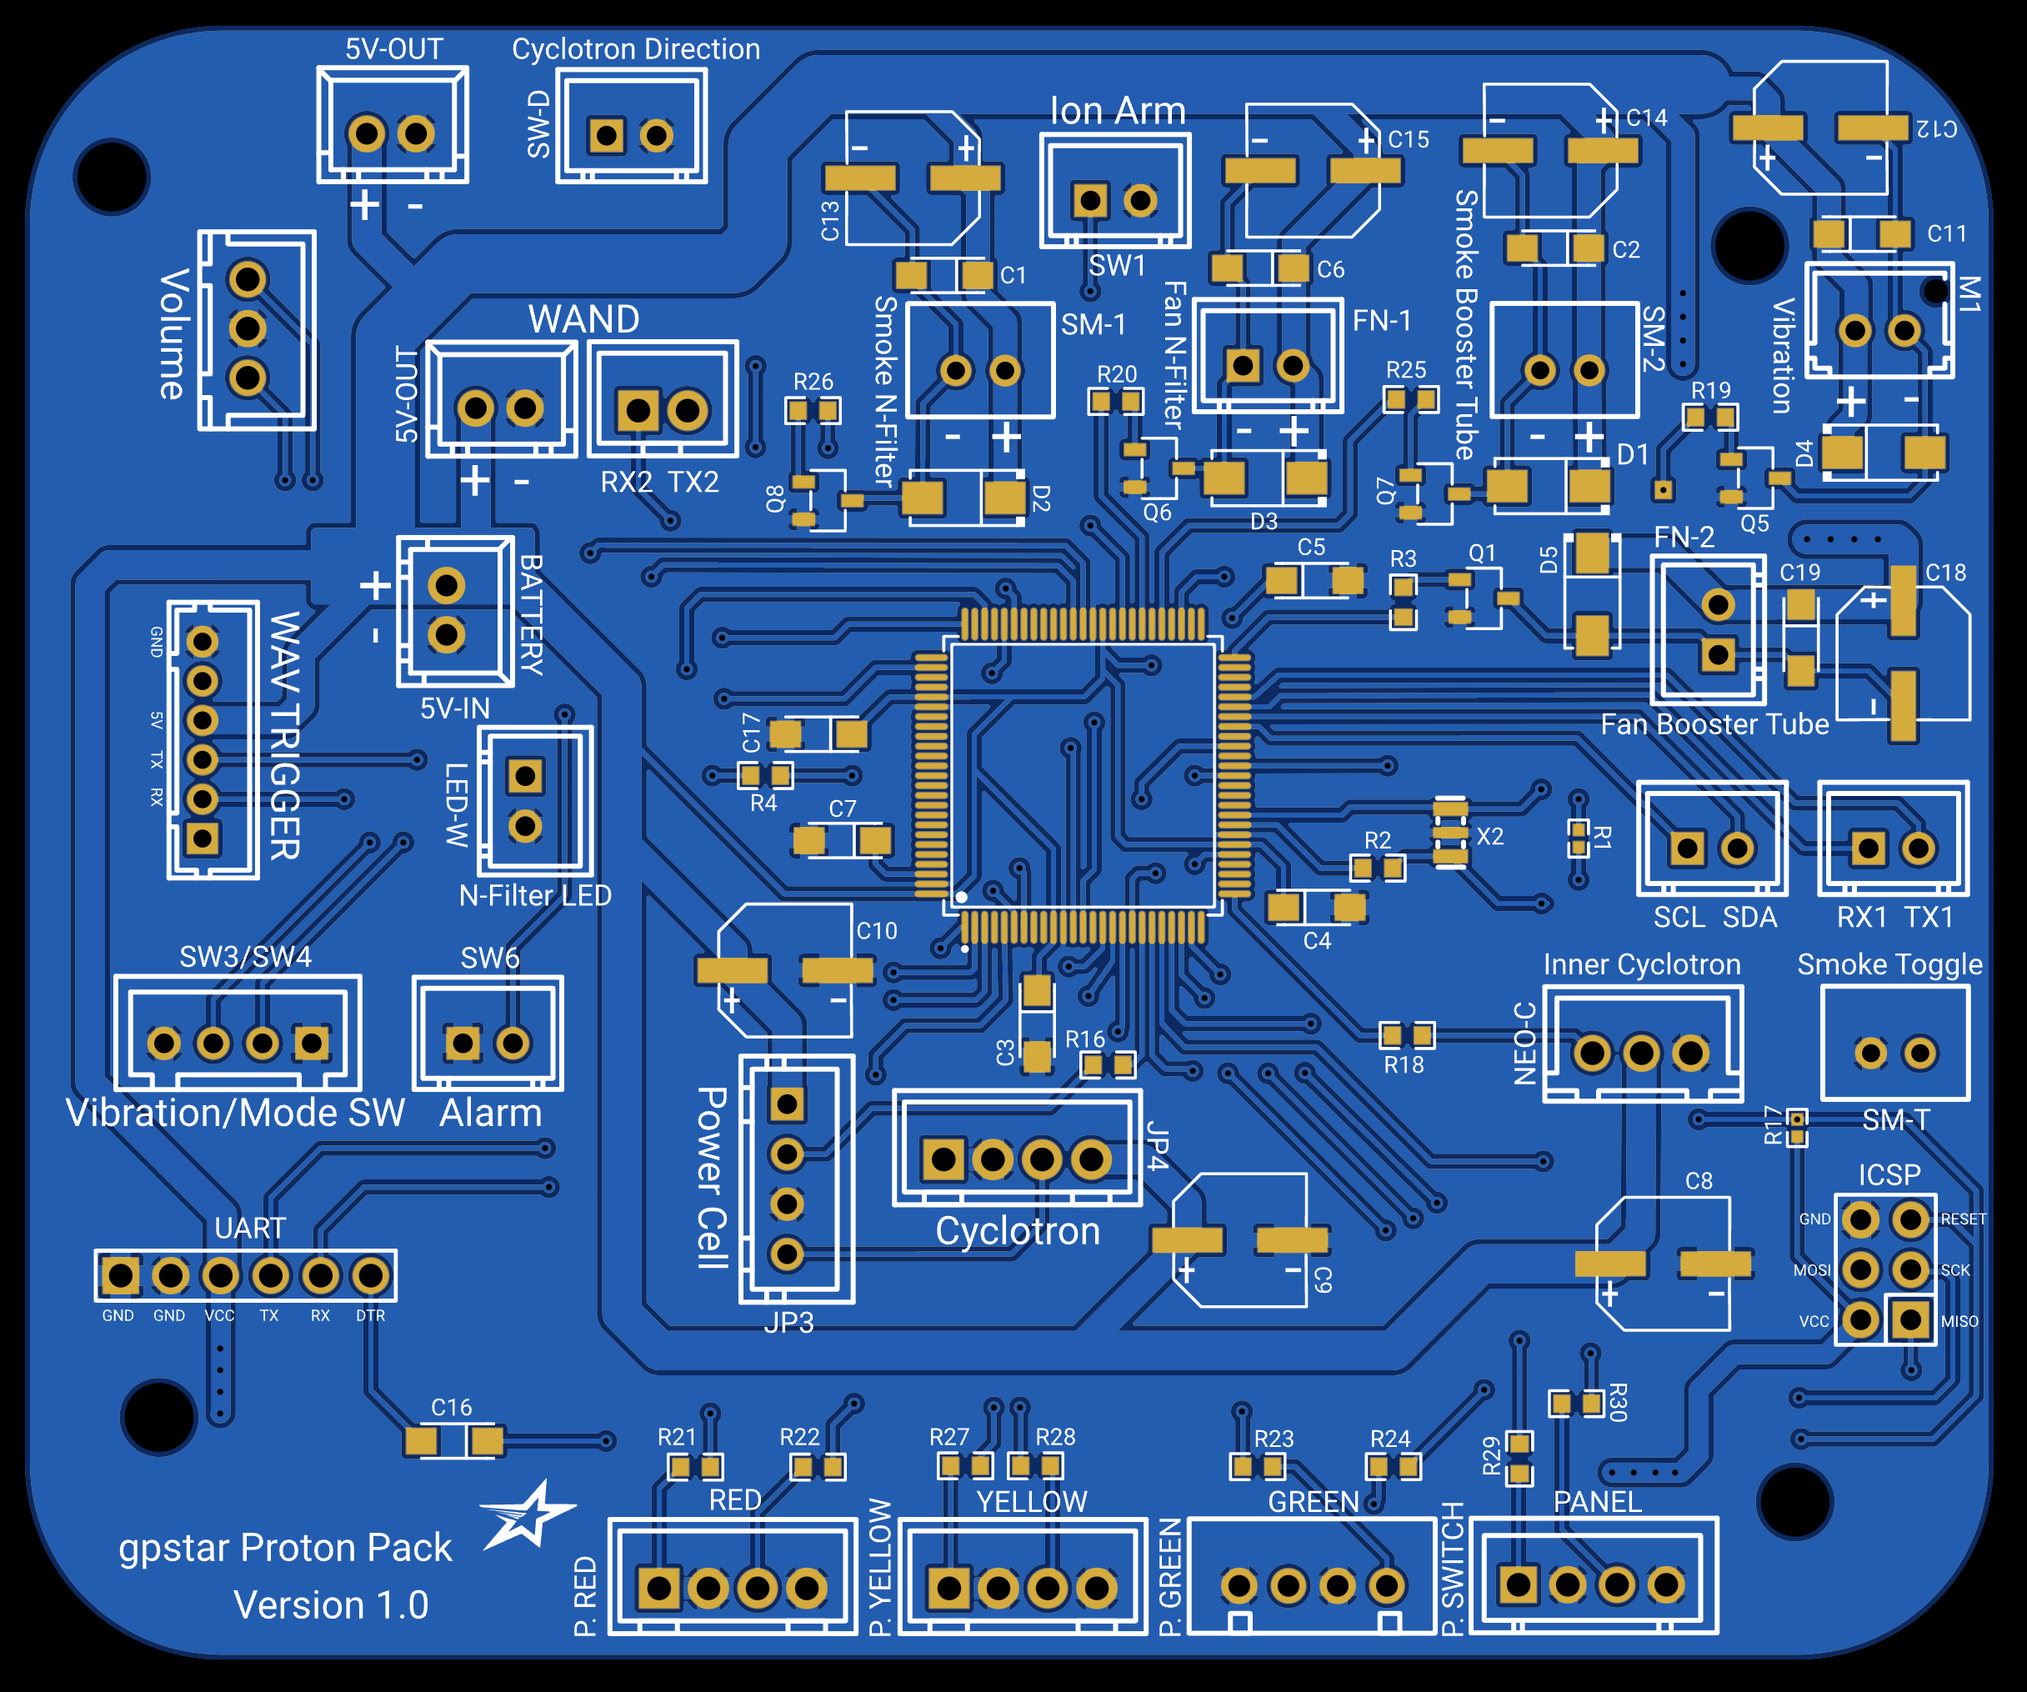
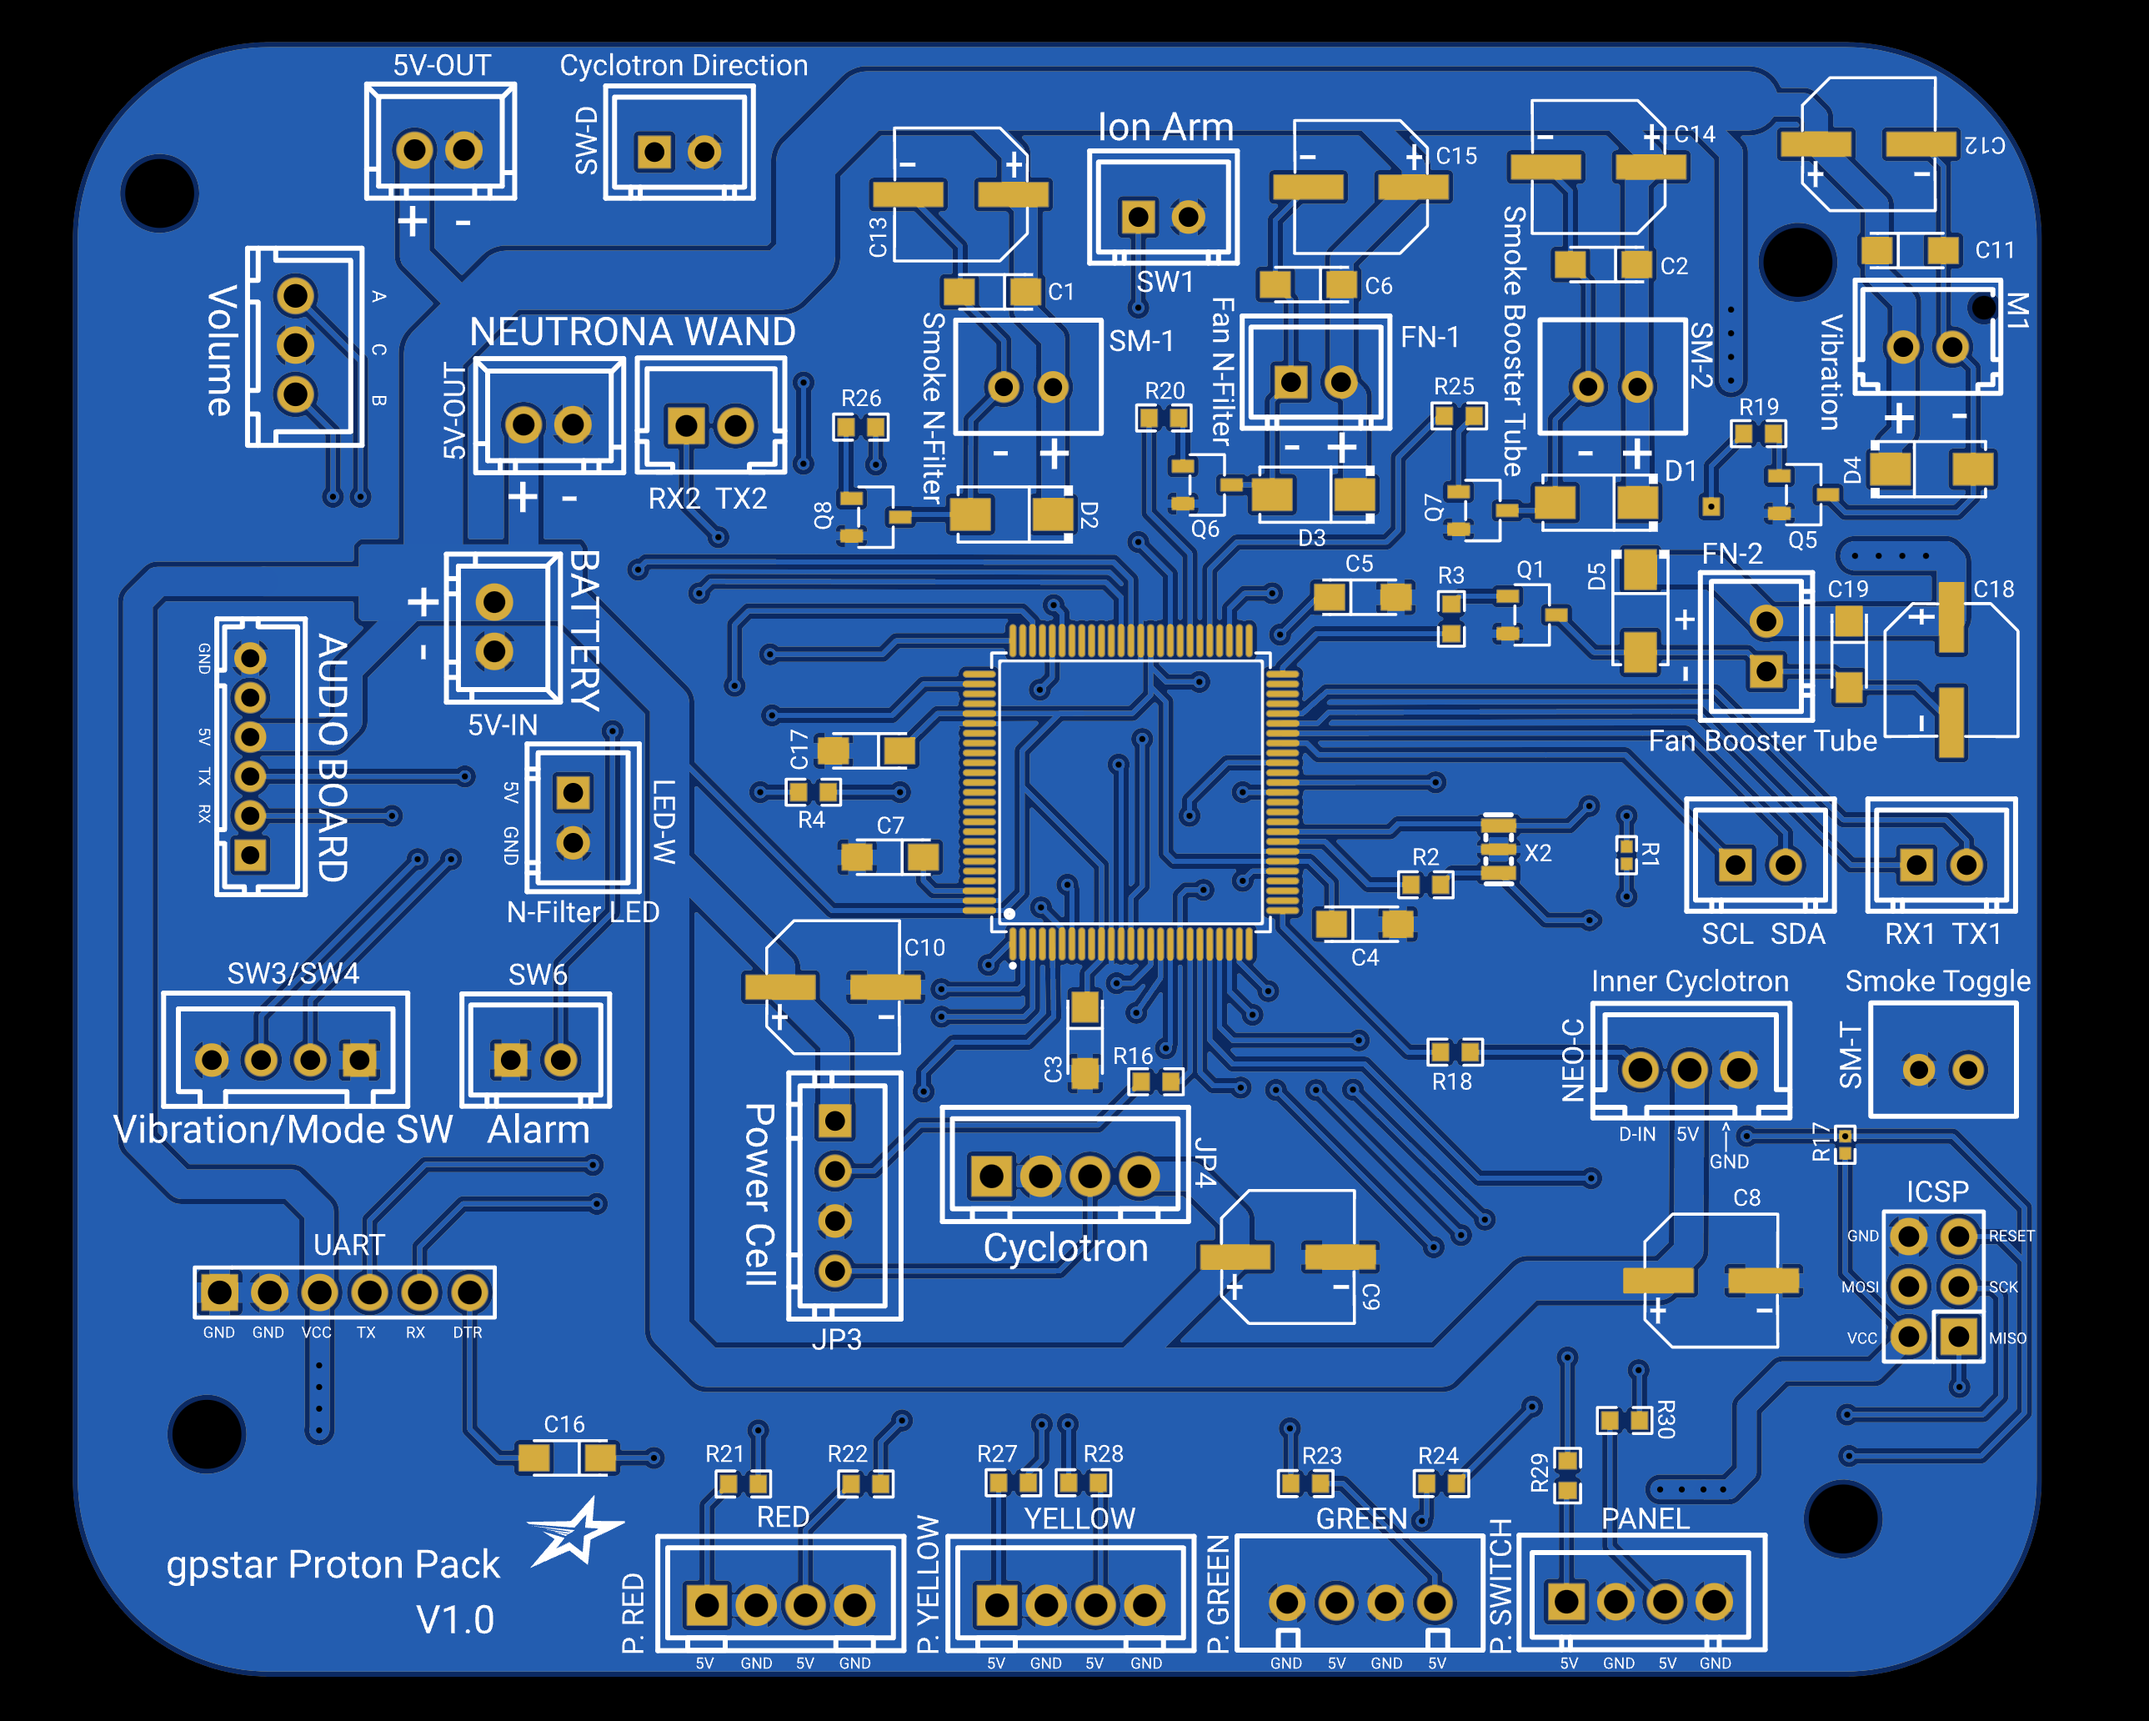
documentation updates

diff --git a/BARGRAPH.md b/BARGRAPH.md
@@ -14,23 +14,23 @@ This guide outlines the **optional** upgrade from the 5-LED stock bargraph to a 
 
 You will find the Barmeter pin reference below which will connect the bargraph to the matrix driver board. See the component fitment guide at the bottom of this page for how to mount this Bargraph into your wand body.
 
-| HT16K33 Board | PCB    | Nano Pin | Barmeter Pin |
-|---------------|--------|----------|--------------|
-| VDD           | +5V    |          |              |
-| GND           | Ground |          |              |
-| SDA           | →      | Pin A5   |              |
-| SCL           | →      | Pin A4   |              |
-| A0            | →      | →        | 22 (C1)      |
-| A1            | →      | →        |  1 (C2)      |
-| A2            | →      | →        | 19 (C3)      |
-| A3            | →      | →        | 18 (C4)      |
-| A4            | →      | →        |  7 (C5)      |
-| A5            | →      | →        | 10 (C6)      |
-| A6            | →      | →        | 11 (C7)      |
-| C0            | →      | →        | 21 (L1)      |
-| C1            | →      | →        | 15 (L2)      |
-| C2            | →      | →        | 13 (L3)      |
-| C3            | →      | →        | 16 (L4)      |
+| HT16K33 Board | Wand PCB |  Barmeter Pin |
+|---------------|--------|---------------|
+| VDD           | +5V    |               |
+| GND           | Ground |               |
+| SDA           | SDA    |               |
+| SCL           | SCL    |               |
+| A0            | →      |  22 (C1)      |
+| A1            | →      |   1 (C2)      |
+| A2            | →      |  19 (C3)      |
+| A3            | →      |  18 (C4)      |
+| A4            | →      |   7 (C5)      |
+| A5            | →      |  10 (C6)      |
+| A6            | →      |  11 (C7)      |
+| C0            | →      |  21 (L1)      |
+| C1            | →      |  15 (L2)      |
+| C2            | →      |  13 (L3)      |
+| C3            | →      |  16 (L4)      |
 
 **Note** - If using the all-in-one PCB controller, connect the SDA and SCL pins directly to the expansion port available on that board. Additionally, the VDD and GND pins may make use of the 5V-OUT connection on that controller.
 
@@ -60,11 +60,11 @@ The 28-segment bargraph is intended to take the place of the 5-LED + PCB assembl
 
 To fit the new bargraph in place, it needs a suitable holder to keep it in the correct orientation. Thankfully, it can be seen quite well without removing the clear/frosted plastic from the wand housing, though some minor trimming may be necessary at the bottom (when oriented with the rotary encoder facing up) of the bargraph socket. 
 
-If you have access to a 3D printer, the file [bargraph_insert.stl](stl/wand/bargraph_insert.stl) should fit the bargraph tightly while also slotting into the clear plastic. 
+If you have access to a 3D printer, the file [28_Segment_Bargraph_Insert.stl.stl](stl/wand/28_Segment_Bargraph_Insert.stl.stl) should fit the bargraph tightly while also slotting into the clear plastic. 
 ![](images/bargraph_mount_1.jpg)
 ![](images/bargraph_mount_2.jpg)
 
-There is an alternative mounting solution which when you cut the original clear plastic away, you can fit the bargraph into the [bargraph_mount.stl](stl/wand/bargraph_mount.stl) and [bargraph_block.stl](stl/wand/bargraph_block.stl) which uses the stock mounting screw positions.
+There is an alternative mounting solution which when you cut the original clear plastic away, you can fit the bargraph into the [28_Segment_Bargraph_Mount.stl](stl/wand/28_Segment_Bargraph_Mount.stl) and [28_Segment_Bargraph_Block.stl](stl/wand/28_Segment_Bargraph_Block.stl) which uses the stock mounting screw positions.
 ![](images/bargraph_mount_3.jpg)
 ![](images/bargraph_mount_4.jpg)
 ![](images/bargraph_mount_5.jpg)

diff --git a/PACK_PCB.md b/PACK_PCB.md
@@ -31,9 +31,9 @@ Connections for the pack should be made according to the table below.
 
 | Label | Pins | Notes |
 |-------|------|-------|
-| WAV TRIGGER | GND/NC/VCC/TX/RX/NC | Communication and Power for the pack's Wav Trigger |
-| WAND 5V-OUT | +/\- | Power to the Neutrona Wand |
-| WAND (Serial) | RX2/TX2 | Serial communication to the Neutrona Wand |
+| AUDIO BOARD | GND/NC/VCC/TX/RX/NC | Communication and Power for the pack's Wav Trigger |
+| NEUTRONA WAND 5V-OUT | +/\- | Power to the Neutrona Wand |
+| NEURTONA WAND (Serial) | RX2/TX2 | Serial communication to the Neutrona Wand |
 | ICSP | DO NOT USE! | Reserved header for bootloader updates (reserved) |
 | UART | See Below | Programming header for software updates (optional) |
 
@@ -53,11 +53,11 @@ For connecting the UART pins, use a suitable FTDI chip such as the same **FTDI B
 | SM-2 | \-/+ | Smoke effects for Booster Tube (D35) |
 | FN-2 | \-/+ | Fan for Booster Tube smoke (D50) |
 | NEO-C | D13/VCC/GND | Neopixel LED ring for Inner Cyclotron "Cake" |
-| P.RED | D4/GND/D5/GND | Cyclotron Panel LED's: 2x Red |
-| P.YELLOW | D6/GND/D7/GND | Cyclotron Panel LED's: 2x Yellow |
-| P.GREEN | D8/GND/D9/GND | Cyclotron Panel LED's: 2x Green |
-| P.SWITCH | D10/GND/D11/GND | Cyclotron Panel LED's: 1x Green (Mode Indicator, D10) and 1x Yellow (Vibration Enabled, D11) |
-| LED-W | D46/GND | Connection for a standalone white LED in N-Filter |
+| P.RED | D4/GND/D5/GND | Cyclotron Panel LED's: 2x Red.<br><br>D4 and D5 provides 5V and has a 140Ω resistor connected to each of them. Do not draw more than 40mA from each these pins. |
+| P.YELLOW | D6/GND/D7/GND | Cyclotron Panel LED's: 2x Yellow.<br><br>D6 and D7 provides 5V and has a 140Ω resistor connected to each of them. Do not draw more than 40mA from each these pins.|
+| P.GREEN | D8/GND/D9/GND | Cyclotron Panel LED's: 2x Green.<br><br>D8 and D9 provides 5V and has a 100Ω resistor connected to each of them. Do not draw more than 40mA from each these pins. |
+| P.SWITCH | D10/GND/D11/GND | Cyclotron Panel LED's: 1x Green (Mode Indicator, D10) and 1x Yellow (Vibration Enabled, D11).<br><br>D10 and D11 provides 5V. D10 and has a 100Ω resistor connected to it and D11 has a 140Ω resistor connected to it. Do not draw more than 40mA from each these pins. |
+| LED-W | D46/GND | Connection for a standalone white LED in the N-Filter.<br><br>D46 provides 5V and has a 100Ω resistor connected to it. Do not draw more than 40mA from this pin. |
 | 5V-OUT | +/\- | Power for additional accessories |
 | SCL/SDA | SCL/SDA | Expansion serial port using I2C |
 | RX1/TX1 | RX1/TX1 | Expansion serial port |

diff --git a/WAND_PCB.md b/WAND_PCB.md
@@ -70,9 +70,9 @@ For connecting the UART pins, use a suitable FTDI chip such as the same **FTDI B
 
 | Label | Pins | Notes |
 |-------|------|-------|
-| HAT1 | GND/D22 | Connection for hat LED |
-| HAT2 | GND/D23 | Connection for hat LED |
-| BARREL-LED | GND/D24 | Connection for white wand tip light |
+| HAT1 | GND/D22 | Connection for top of the wand box hat LED. The left (top in the photo) pin is GND, the right (bottom in the photo) pin is D22 which provides 5V and has a 100Ω resistor connected to it. Do not draw more than 40mA from this pin. |
+| HAT2 | GND/D23 | Connection for barrel tip hat LED. The left (top in the photo) pin is GND, the right (bottom in the photo) pin is D23 provides 5V and has a 100Ω resistor connected to it. Do not draw more than 40mA from this pin. |
+| BARREL-LED | GND/D24 | Connection for white wand tip light. The left (top in the photo) pin is GND, the right (bottom in the photo) pin is D24 which provides 5V and has a 100Ω resistor connected to it. Do not draw more than 40mA from this pin. |
 | 5V-OUT | +/\- | Power for additional accessories |
 | SCL/SDA | SCL/SDA | Expansion serial port using I2C |
 
